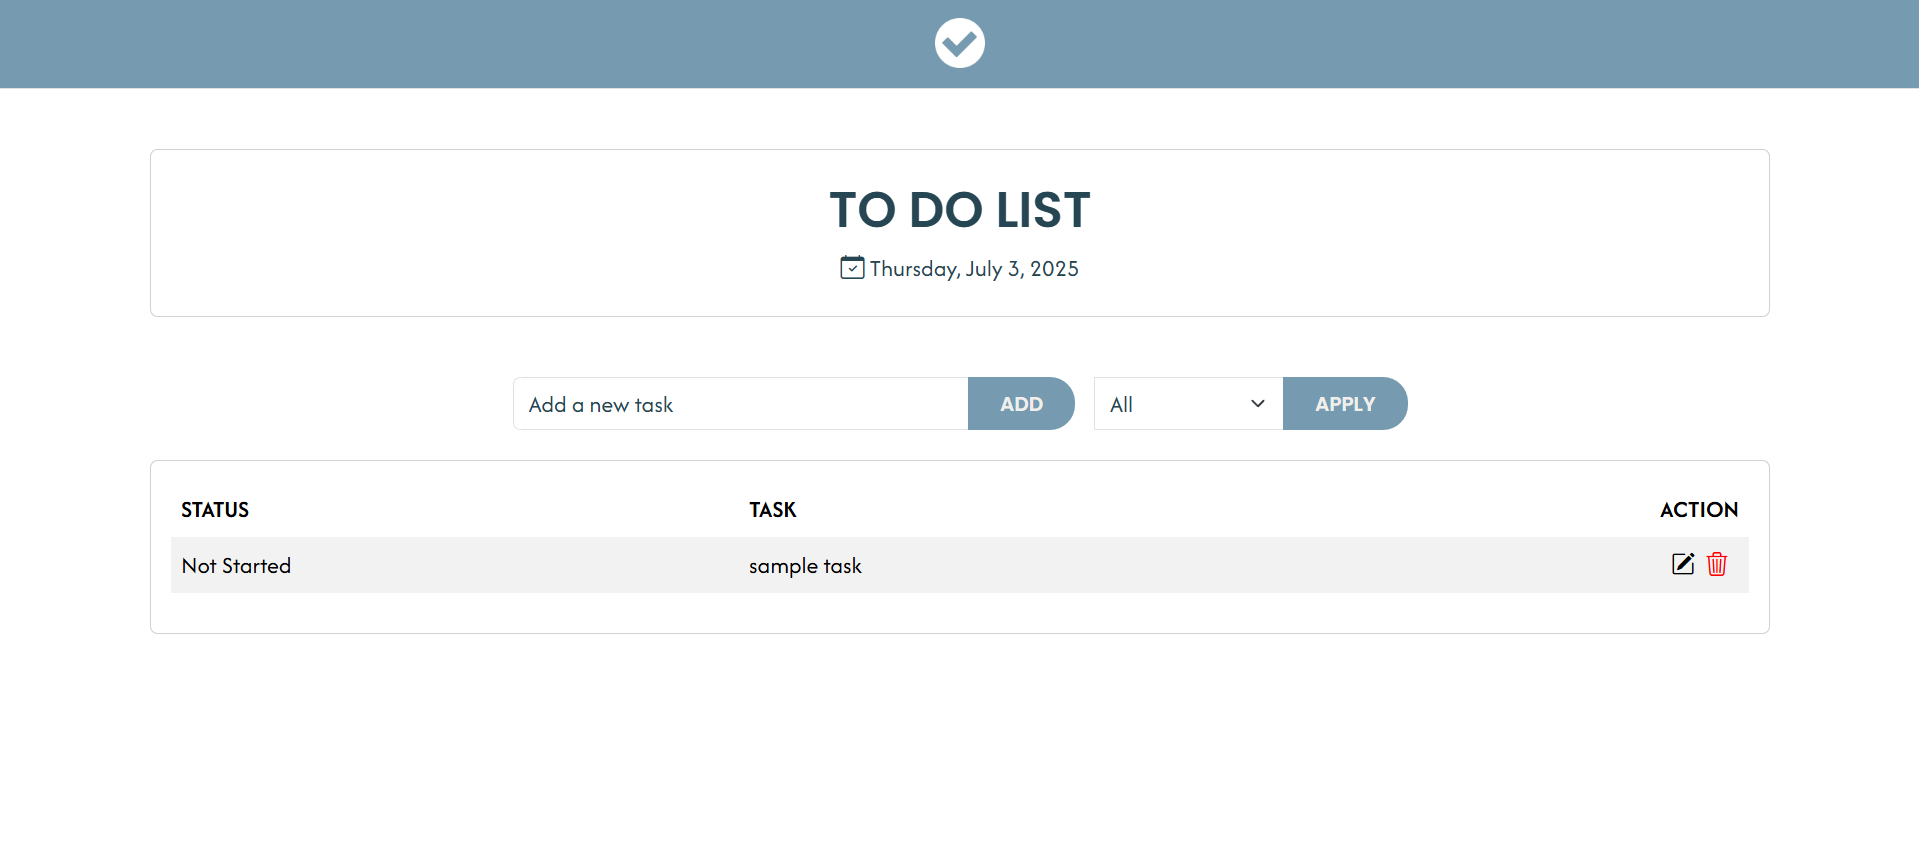
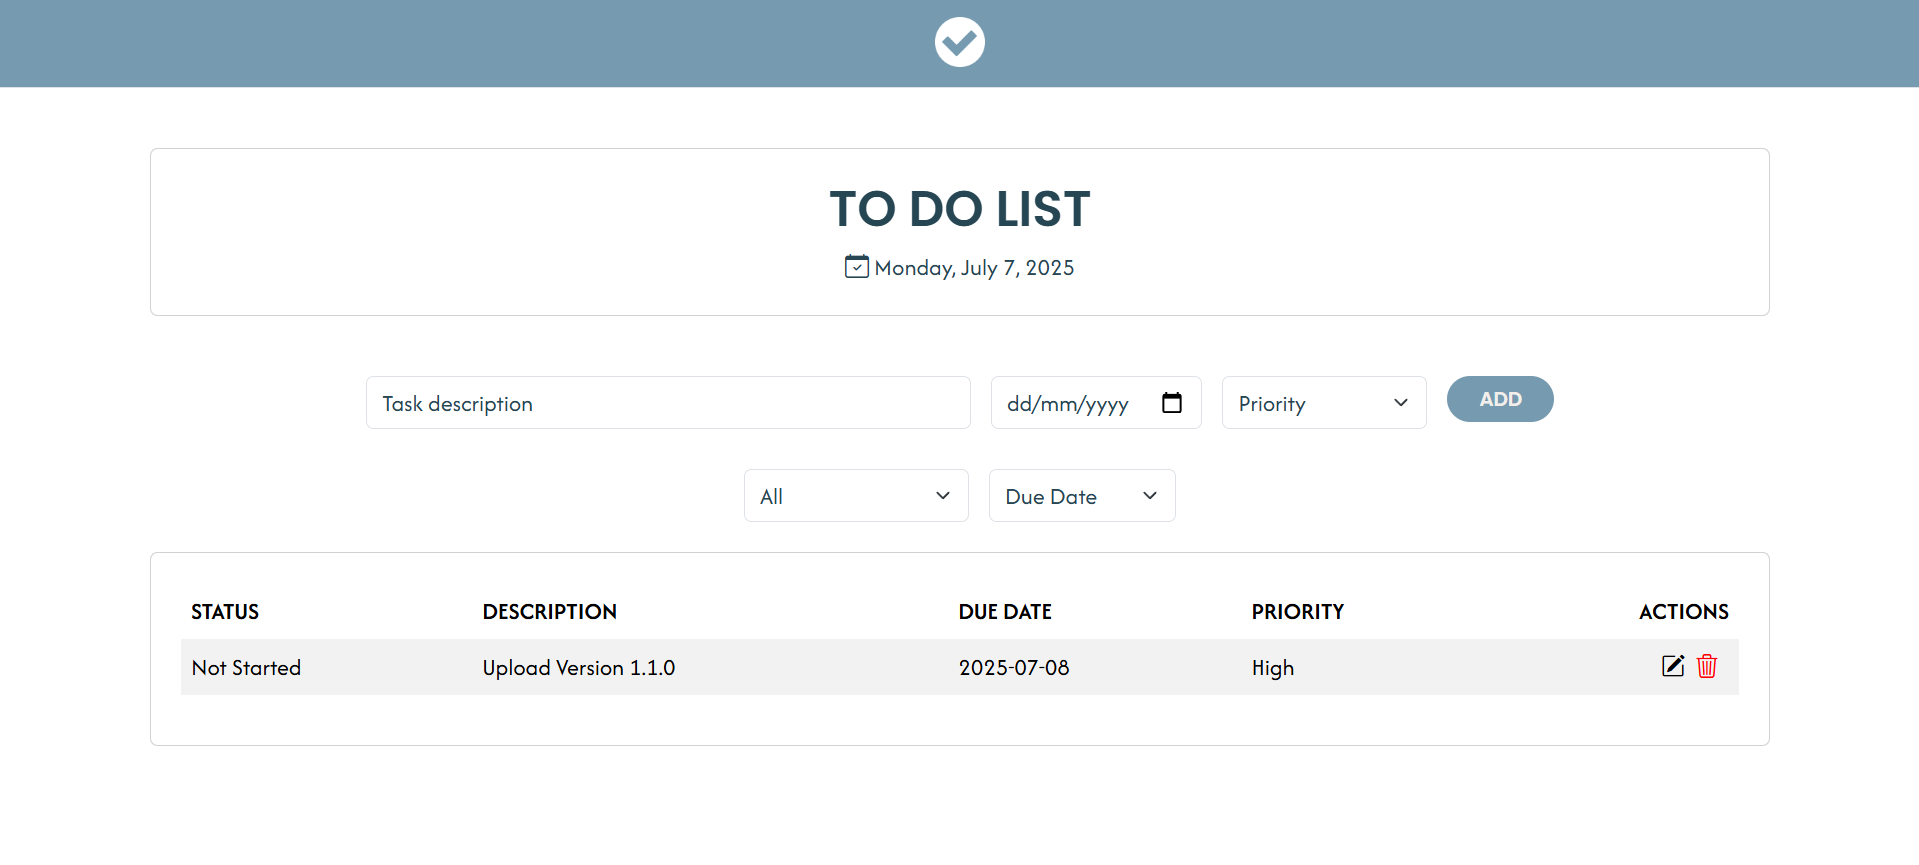
updated readme

diff --git a/README.md b/README.md
@@ -6,20 +6,26 @@ A clean, responsive, and easy-to-use web-based To-Do List application designed t
 
 ✨ You can view the project here: [To-Do List Web App](https://binibiningjenna.github.io/to-do-list/)
 
-## 📌 Version
+**Current Release: v1.1.0**
 
-**Current Release: v1.0.0**
-
-This is the first official version of the To-Do List App. It includes basic functionality such as adding, editing, deleting, and filtering tasks with a modern and responsive UI.
+### 🔄 What’s New in v1.1.0
+- 🗂 **Added Task Priority Options** – Tasks can now be assigned a priority: `High`, `Medium`, or `Low`
+- 📅 **Due Date Support** – Users can now set a due date for each task
+- 🔍 **Enhanced Filtering** – Filter tasks not only by status but also by priority and due date (e.g. Today, Tomorrow, This Week, Overdue)
+- ⚠ **Input Validation** – Error alert if the task description is empty
+- 📨 **Improved Empty State Message** – Better messaging when no tasks are found based on current filters
 
 ## ✨ Features
 
-- 🆕 Add new tasks with a description
-- ✏ Edit existing tasks and update their status (`Not Started`, `In Progress`, `Done`)
+- 🆕 Add new tasks with a description, due date, and priority
+- ✏ Edit existing tasks and update their status, description, date, or priority
 - 🗑 Delete tasks with confirmation modal
-- 🔍 Filter tasks by status: `All`, `Not Started`, `In Progress`, `Done`
+- 🔍 Filter tasks by:
+  - Status: `All`, `Not Started`, `In Progress`, `Done`
+  - Priority: `High`, `Medium`, `Low`
+  - Due Date: `All`, `Today`, `Tomorrow`, `This Week`, `Overdue`
 - 📅 Dynamic current date display
-- 📭 Message when no tasks are available
+- 📭 Message when no tasks are available or match filters
 - 💾 Tasks are saved using browser `localStorage`
 - 📱 Responsive design using Bootstrap
 - 🎨 Theming support through CSS variables (ready for dark/light mode)
